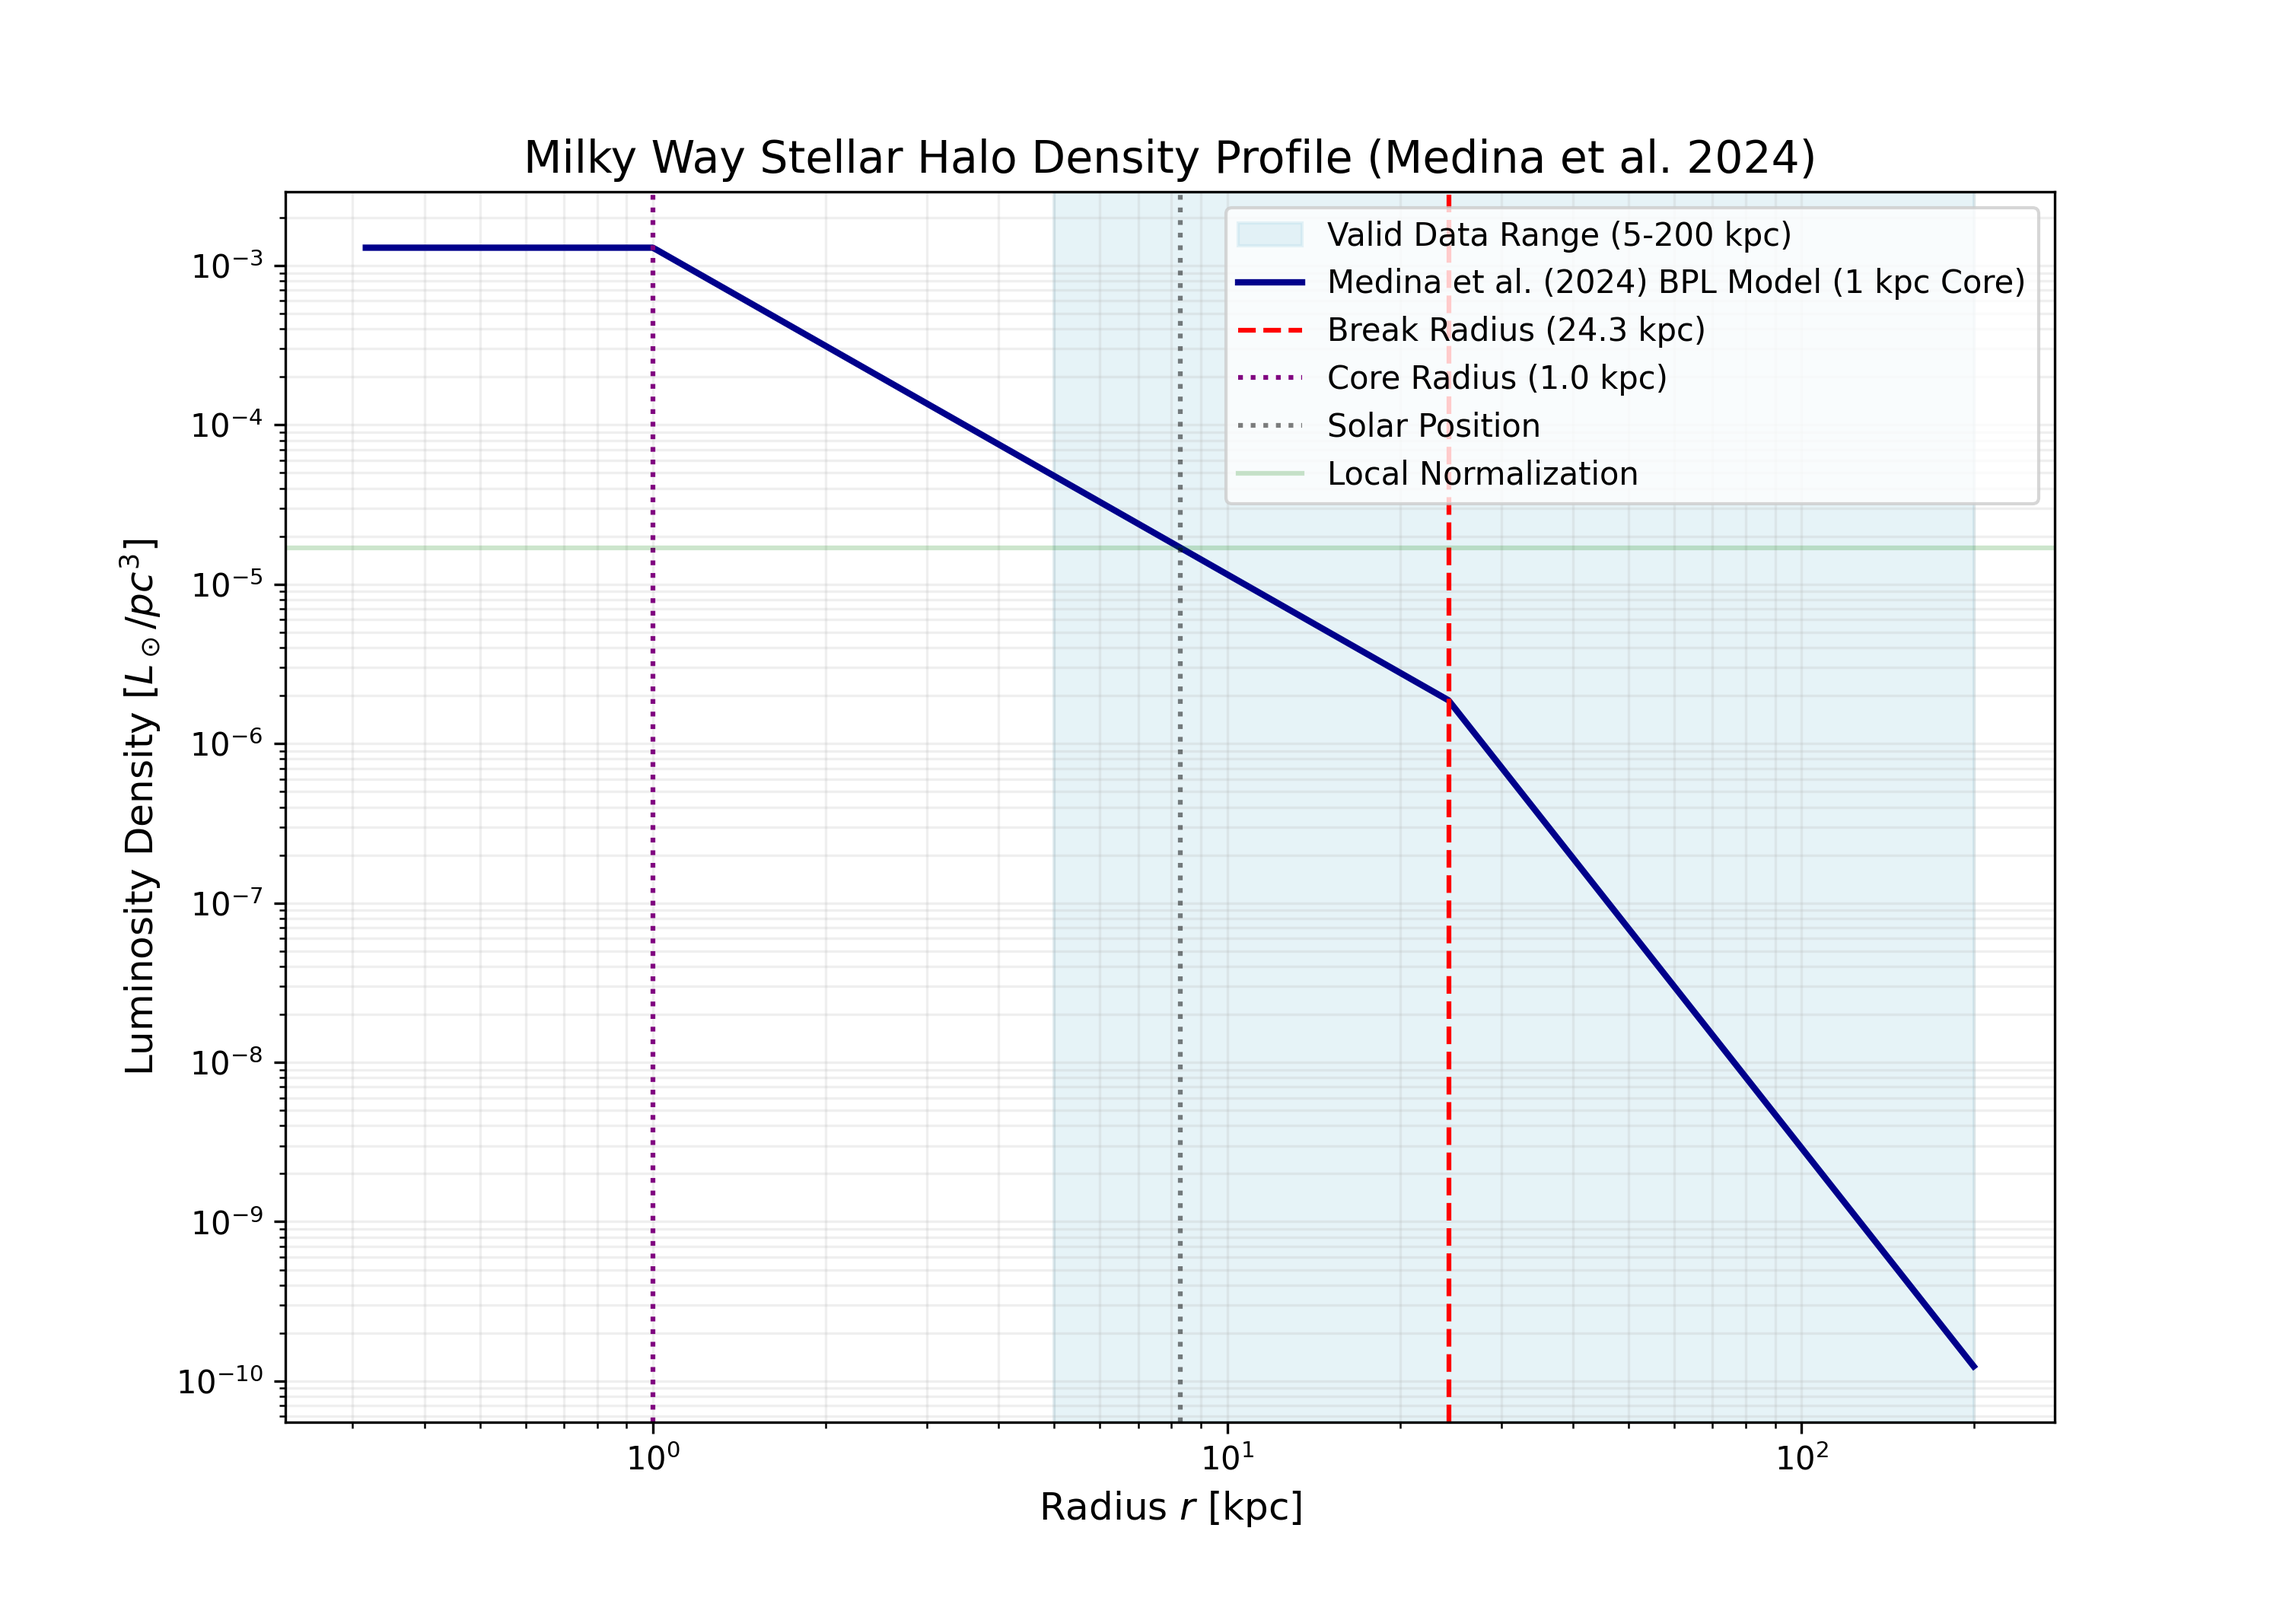
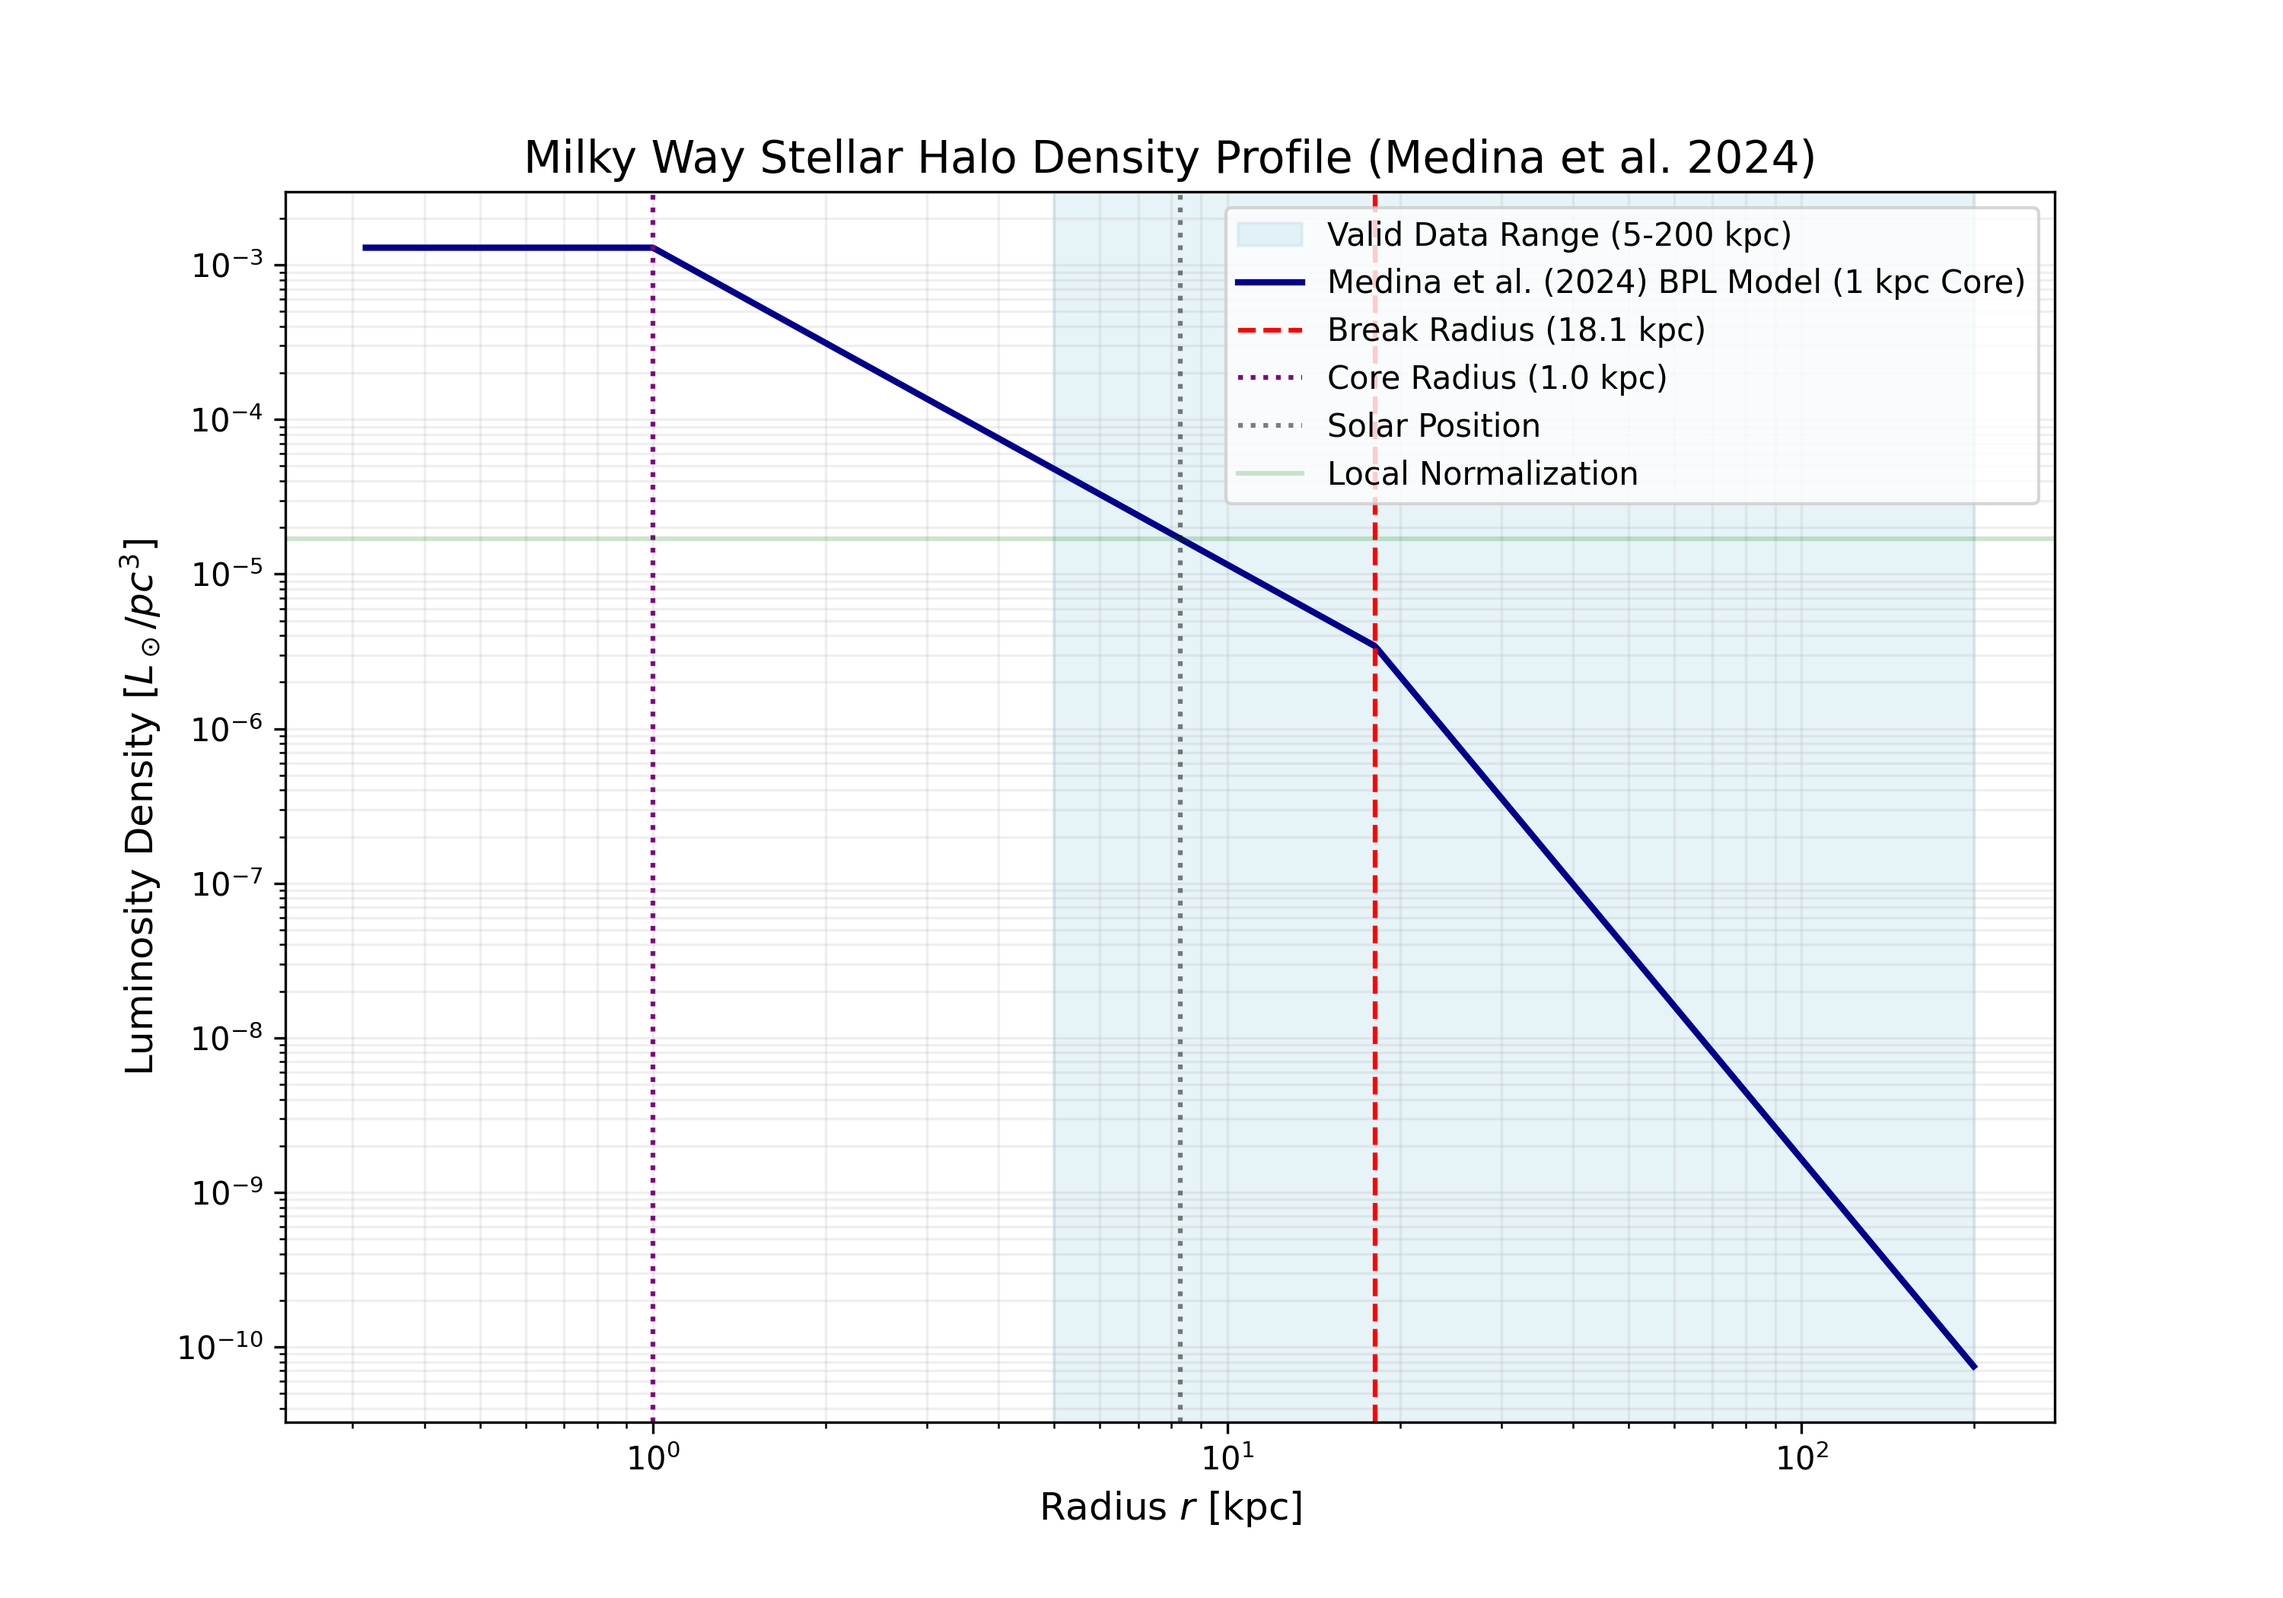
Add files via upload
major update for Medina 2018 and 2021 models

diff --git a/assets/medina2024_density_model.py b/assets/medina2024_density_model.py
@@ -3,12 +3,12 @@ import matplotlib.pyplot as plt
 
 def calculate_medina2024_halo():
     # Parameters from Medina et al. (2024) - MNRAS 531, 4762
-    # Model: Broken Power Law (Ellipsoidal version with q=0.7)
+    # Model: Broken Power Law (Spherical version with q=1.0)
     alpha_in = 2.05
-    alpha_out = 4.57
-    r_break = 24.3
+    alpha_out = 4.47
+    r_break = 18.1
     r_core = 1.0   # 1 kpc constant density core (project requirement)
-    q = 0.7        # Oblate flattening
+    q = 1.0        # Spherical flattening
     R_sun = 8.275 
 
     # User local norm

diff --git a/assets/medina2018_density_model.py b/assets/medina2018_density_model.py
@@ -6,7 +6,7 @@ def calculate_medina2018_halo():
     # Model: Single Power Law
     alpha = 4.17
     r_core = 1.0   # 1 kpc constant density core (project requirement)
-    q = 0.7        # Oblate flattening
+    q = 1.0        # Spherical halo
     R_sun = 8.275 
 
     # User local norm
